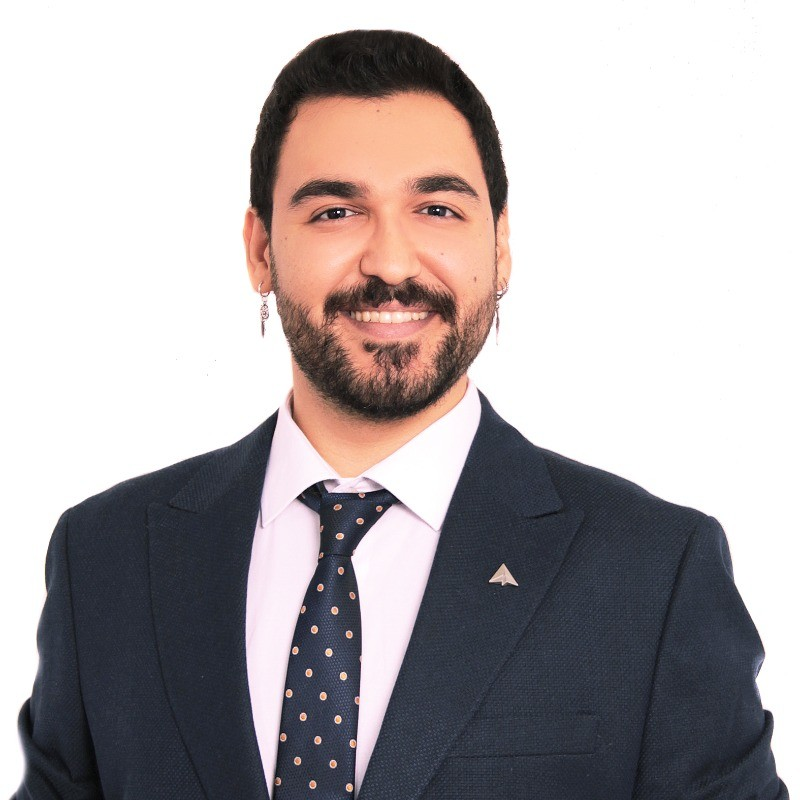
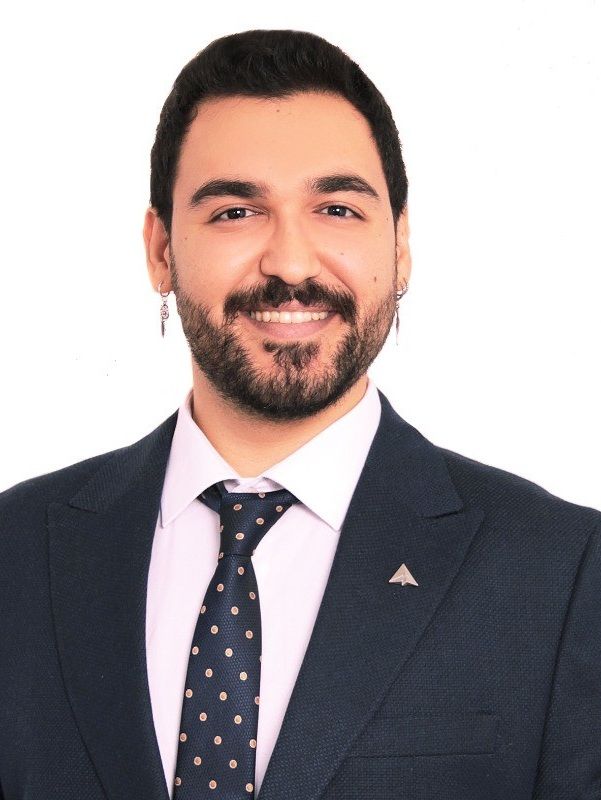
little correction and bugfix

diff --git a/style.css b/style.css
@@ -13,7 +13,7 @@
 body{
     width: 100%;
     height: auto;
-    background-color: #000000;
+    background-color: #272525;
     overflow-x: hidden;
 }
 
@@ -22,15 +22,15 @@ body{
     width: 10px;
 }
 ::-webkit-scrollbar-thumb {
-    background: #888;
+    background: #aa3333;
     transition: all 0.3s ease;
     border-radius: 12px;
 }
 ::-webkit-scrollbar-track {
-    background: #f1f1f1;
+    background: #8b2a2a;
 }
 ::-webkit-scrollbar-thumb:hover {
-    background: #56818b;
+    background: #000000;
 }
 
 /* Navigation Bar */
@@ -49,14 +49,14 @@ nav{
 }
 
 .logo{
-    color: white;
+    color: rgb(221, 127, 65);
     font-size: 2rem;
     font-weight: bold;
 }
 
 .logo span{
-    color: #abb4b6;
-    text-shadow: 0 0 10px #a0b3b6;
+    color: #56818b;
+    text-shadow: 0 0 2px white;
 }
 .hamburg,
 .cancel{
@@ -138,14 +138,17 @@ section .main-container{
     padding-left: 100px;
 }
 .main-container .image{
+    position: relative;
     width: 500px;
-    height: 80vh;
+    height: 70VH;
     border-radius: 100%;
-    box-shadow: 0 0 50px #ffffff;
+    box-shadow: 0 0 50px #cccacab6;
     overflow: hidden;
+    display: flex;
+    cursor: pointer;
 }
 .main-container .image img{
-    
+
     width: 100%;
     
 }
@@ -167,15 +170,15 @@ section .main-container{
 
 .main-container .content{
    color: white;
-    width: 100%;
+    width: 40%;
 }
 .content h1{
     font-size: clamp(1rem, 1rem + 5vw, 1.8rem);
 }
 
 .content h1 span{
-    color: #722929;
-    text-shadow: 0 0 10px #a0b3b6;
+    color: #56818b;
+    text-shadow: 0 0 2px  white;
 }
 
 .content .typewriter{
@@ -184,8 +187,8 @@ section .main-container{
 }
 
 .content .typewriter-text{
-    color: #722929;
-    text-shadow: 0 0 10px #a0b3b6;
+    color: #56818b;
+    text-shadow: 0 0 2px  white;
 }
 
 .content p{
@@ -193,25 +196,25 @@ section .main-container{
     margin: 10px 0;
 }
 
-.social-links{
+.social-links i{
     display: inline-flex;
     align-items: center;
     justify-content: center;
     width: 3rem;
     height: 3rem;
-    background-color: #56818b;
-    border: 0.2rem solid #722929;
+    background-color: transparent;
+    border: 0.2rem solid #56818b;
     border-radius: 50%;
-    color: #56818b;
+    color: white;
     margin: 5px 15px;
     font-size: 1.5rem;
     transition: 0.2s linear;
 }
 
-.social-links:hover{
+.social-links i:hover{
     scale: 1.3;
-    background-color: #722929;
-    color: white;
+    background-color: white;
+    color: black;
     filter: drop-shadow(0 0 10px #56818b);
 }
 
@@ -227,15 +230,16 @@ section .main-container{
     font-weight: 700;
     border-radius: 5px;
     transition: 0.2s linear;
+    cursor: pointer;
 }
 
 .content button:hover{
     scale: 1.1;
-    border: 2px solid #722929;
-    background-color: transparent;
+    border: 3px solid white;
+    background-color: black;
     color: white;
     font-weight: 700;
-    box-shadow: 0 0 40px #56818b;
+    box-shadow: 0 0 40px white;
 }
 
 /* About Section */
@@ -270,7 +274,7 @@ section .title span::after{
     position: absolute;
     height: 3px;
     width: 100%;
-    background: #722929;
+    background: #56818b;
     left: 0;
     bottom: 0;
 }
@@ -318,7 +322,7 @@ section.button button{
     border-radius: 4px;
     font-size: 25px;
     font-weight: 400;
-    background: #722929;
+    background: #56818b;
     color: white;
     border: 2px solid transparent;
     cursor: pointer;
@@ -331,7 +335,7 @@ section.button button:hover{
 }
 /* skills Section */
 .skills{
-    background: black;
+    background: #272525;
 }
 .skills .content{
     padding: 40px 0;
@@ -376,17 +380,17 @@ section.button button:hover{
 }
 .skills-details .boxes .topic{
     font-size: 20px;
-    color: #722929;
+    color: white;
 }
 .skills-details .boxes .per{
     font-size: 60px;
-    color: #722929;
+    color: white;
 }
 
 /* contact Section */
 
 .contact{
-    background: black;
+    background: #272525;
 }
 .contact .content{
     margin: 0 auto;
@@ -394,6 +398,7 @@ section.button button:hover{
 }
 
 .contact .text{
+    color: white;
     width: 80%;
     margin: auto;
     text-align: center;
@@ -401,7 +406,7 @@ section.button button:hover{
 
 /* footer Section */
 footer{
-    background: #722929;
+    background: white;
     padding: 15px 0;
     text-align: center;
     font-family: 'poppins', sans-serif;
@@ -409,11 +414,11 @@ footer{
 footer .text span{
     font-size: 17px;
     font-weight: 400;
-    color: white;
+    color: black;
 }
 footer .text span a{
     font-weight: 500;
-    color: #ffffff;
+    color: black;
 }
 footer .text span a:hover{
     text-decoration: underline;

diff --git a/index.html b/index.html
@@ -13,7 +13,7 @@
     <nav>
         <div class="nav-container">
             <div class="logo" data-aos="zoom-in" data-aos-duration="1500">
-                <span>ANIL</span>
+                <span>ANIL SOYDAN</span>
             </div>
                 <div class="links">
                     <div class="link" data-aos="fade-up" data-aos-duration="1500" data-aos-delay="100"><a href="index.html">Home</a></div>
@@ -41,15 +41,15 @@
             </div>
                 <div class="content">
                         <h1 data-aos="fade left" data-aos-duration="1500" data-aos-delay="700">Hey I'm <span>ANIL</span></h1>
-                        <div class="typewriter" data-aos="fade-right" data-aos-duration="1500" data-aos-delay="900">I'm a<span class="typewriter-text"> Software Developer</span><label for="">|</label></div>
+                            <div class="typewriter" data-aos="fade-right" data-aos-duration="1500" data-aos-delay="900">I'm a<span class="typewriter-text"> Software Developer</span><label for="">|</label></div>
                         <p data-aos="flip-down" data-aos-duration="1500" data-aos-delay="1100">Fill later</p>
-                        <div class="social-links">
-                            <a href="#" data-aos="fade-up" data-aos-duration="1500" data-aos-delay="1300"><i class="fa-brands fa-github"></i></a>
-                            <a href="#" data-aos="fade-up" data-aos-duration="1500" data-aos-delay="1400"><i class="fa-brands fa-linkedin"></i></a>
-                            <a href="#" data-aos="fade-up" data-aos-duration="1500" data-aos-delay="1500"><i class="fa-brands fa-twitter"></i></a>
-                            <a href="#" data-aos="fade-up" data-aos-duration="1500" data-aos-delay="1600"><i class="fa-brands fa-instagram"></i></a>
-                        </div>
-                        <div class="btn" data-aos="zoom-in" data-aos-duration="1500" data-aos-delay="1800">
+                            <div class="social-links">
+                                <a href="#" data-aos="fade-up" data-aos-duration="1500" data-aos-delay="1300"><i class="fa-brands fa-github"></i></a>
+                                <a href="#" data-aos="fade-up" data-aos-duration="1500" data-aos-delay="1400"><i class="fa-brands fa-linkedin"></i></a>
+                                <a href="#" data-aos="fade-up" data-aos-duration="1500" data-aos-delay="1500"><i class="fa-brands fa-twitter"></i></a>
+                                <a href="#" data-aos="fade-up" data-aos-duration="1500" data-aos-delay="1600"><i class="fa-brands fa-instagram"></i></a>
+                            </div>
+                        <div class="button" data-aos="zoom-in" data-aos-duration="1500" data-aos-delay="1800">
                         <button>Hire Me</button>
                         </div>
                 </div>
@@ -63,7 +63,7 @@
             <div class="title" data-aos="fade-up" data-aos-duration="1500"><span>About Me</span></div>
         <div class="about-details"> 
             <div class="left" data-aos="fade-right" data-aos-duration="1500" data-aos-delay="200">
-                <img src="main.jpg" alt="" />
+                <img src="main2.jpg" alt="" />
             </div>
                 <div class="right">
                         <div class="topic" data-aos="fade-left" data-aos-duration="1500" data-aos-delay="200">Coding is my passion</div>
@@ -138,7 +138,7 @@
     <!-- Footer Section -->
      <footer>
         <div class="text">
-            <span>Created By<a href="#">ANIL SOYDAN</a>|&#169; 2025 All Rights Reserved</span>
+            <span>Created By<a href="#"> ANIL SOYDAN </a> | &#169; 2025 All Rights Reserved</span>
         </div>
      </footer>
 
